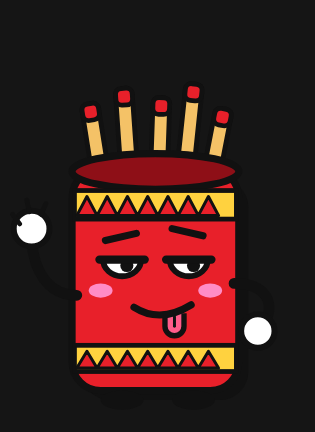
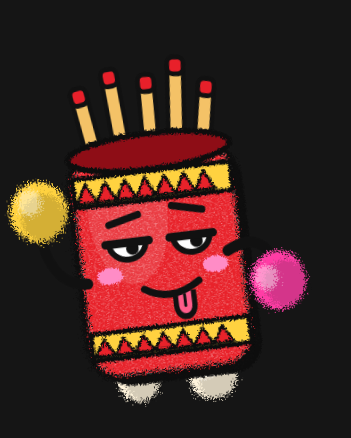
น้องซี้ขนฟูและเต้นดุ๊กดิ๊กตอนรอเขย่า
- ตัวกระบอก มือ เท้า เป็นขนฟูด้วยฟิลเตอร์ SVG (turbulence + displacement)
- มือ/เท้าเป็นปอมปอมสี เพิ่มลายขนบนตัว
- เต้นเด้งส่ายตัว โบกมือ ย่ำเท้า กะพริบตา ตอนหน้าเริ่มเกมและตอนรอเขย่า
- หยุดเต้นระหว่างเขย่า/เฉลย และปิดทั้งหมดเมื่อผู้ใช้ตั้งลดการเคลื่อนไหว
- อัปเดตรูป assets/mascot.svg, mascot.png, logo.png

Claude-Session: https://claude.ai/code/session_019TdPX2fSafkCAhLCbdSRDq

diff --git a/src/ui/mascot.ts b/src/ui/mascot.ts
@@ -1,4 +1,4 @@
-// มาสคอต "น้องซี้" — กระบอกเซียมซีหน้ากวน ตาปรือ แลบลิ้น มีแขนการ์ตูน
+// มาสคอต "น้องซี้" — กระบอกเซียมซีขนฟูหน้ากวน ตาปรือ แลบลิ้น มือ/เท้าปอมปอม เต้นดุ๊กดิ๊กตอนว่าง
 // ใช้ชุดเดียวกันทั้งโลโก้ หน้าเริ่มเกม และกระบอกที่เขย่าได้จริง
 
 export const C = {
@@ -52,8 +52,26 @@ export interface MascotOpts {
   className?: string;
 }
 
+let uid = 0;
+
+/** ปอมปอมขนฟู: วงกลมสี + เงา + ไฮไลต์ แล้วใส่ฟิลเตอร์ขนทั้งก้อน */
+function pom(cx: number, cy: number, r: number, color: string, fur: string) {
+  return `<g filter="url(#${fur})">
+      <circle cx="${cx}" cy="${cy}" r="${r}" fill="${color}"/>
+      <circle cx="${cx + r * 0.18}" cy="${cy + r * 0.22}" r="${r * 0.8}" fill="${C.ink}" opacity=".18"/>
+      <circle cx="${cx - r * 0.3}" cy="${cy - r * 0.32}" r="${r * 0.42}" fill="#fff" opacity=".45"/>
+    </g>`;
+}
+
 export function mascotSVG(opts: MascotOpts = {}): string {
   const title = opts.title ?? 'น้องซี้ กระบอกเซียมซีหน้ากวน';
+  // id ไม่ซ้ำ เผื่อมีมาสคอตหลายตัวในหน้าเดียว
+  const id = `m${++uid}`;
+  const fur = `${id}-fur`;
+  const furSoft = `${id}-fur-soft`;
+  const fuzz = `${id}-fuzz`;
+  const shag = `${id}-shag`;
+  const shape = `${id}-shape`;
   const pick = opts.pickStick
     ? `<g class="pick-stick">
         <rect x="111" y="112" width="26" height="150" rx="8" fill="${C.stick}" stroke="${C.ink}" stroke-width="5"/>
@@ -61,44 +79,94 @@ export function mascotSVG(opts: MascotOpts = {}): string {
         <text class="pick-num" x="124" y="132" text-anchor="middle" font-size="28" font-weight="800" fill="${C.ink}" font-family="Kanit, system-ui, sans-serif">?</text>
       </g>`
     : '';
-  return `<svg class="mascot ${opts.className ?? ''}" viewBox="-8 -52 262 362" role="img" aria-label="${title}" xmlns="http://www.w3.org/2000/svg">
+  return `<svg class="mascot ${opts.className ?? ''}" viewBox="-30 -52 296 372" role="img" aria-label="${title}" xmlns="http://www.w3.org/2000/svg">
   <title>${title}</title>
+  <defs>
+    <!-- ขอบขนฟู: สุ่มเลื่อนพิกเซลรอบขอบให้เป็นเส้นขนเล็ก ๆ -->
+    <filter id="${fur}" x="-25%" y="-25%" width="150%" height="150%">
+      <feTurbulence type="fractalNoise" baseFrequency="0.9" numOctaves="2" seed="3" result="n"/>
+      <feDisplacementMap in="SourceGraphic" in2="n" scale="9" xChannelSelector="R" yChannelSelector="G"/>
+    </filter>
+    <!-- ขนยาวสำหรับปอมปอม/ขอบนอก -->
+    <filter id="${shag}" x="-35%" y="-35%" width="170%" height="170%">
+      <feTurbulence type="fractalNoise" baseFrequency="1.1" numOctaves="2" seed="11" result="n"/>
+      <feDisplacementMap in="SourceGraphic" in2="n" scale="16" xChannelSelector="R" yChannelSelector="G"/>
+    </filter>
+    <filter id="${furSoft}" x="-10%" y="-10%" width="120%" height="120%">
+      <feTurbulence type="fractalNoise" baseFrequency="0.7" numOctaves="2" seed="8" result="n"/>
+      <feDisplacementMap in="SourceGraphic" in2="n" scale="5" xChannelSelector="R" yChannelSelector="G"/>
+    </filter>
+    <!-- ลายขนบนตัว: จุดสว่าง/มืดละเอียด วางทับแบบ soft-light -->
+    <filter id="${fuzz}" x="0" y="0" width="100%" height="100%">
+      <feTurbulence type="fractalNoise" baseFrequency="0.55 1.6" numOctaves="3" seed="5"/>
+      <feColorMatrix type="matrix" values="0 0 0 0 1  0 0 0 0 1  0 0 0 0 1  0 0 0 2.2 -1.05"/>
+    </filter>
+    <clipPath id="${shape}"><rect x="50" y="90" width="140" height="186" rx="26"/></clipPath>
+  </defs>
+  <g class="mascot-dance">
   <g class="mascot-shake">
     <g class="sticks">${sticks()}</g>
     ${pick}
+    <!-- เท้าปอมปอม -->
+    <g class="foot foot-l">${pom(88, 284, 20, C.cream, shag)}</g>
+    <g class="foot foot-r">${pom(152, 284, 20, C.cream, shag)}</g>
     <!-- เงาทึบแบบสติกเกอร์ -->
-    <rect x="58" y="98" width="140" height="186" rx="24" fill="${C.ink}"/>
-    <!-- ตัวกระบอก -->
-    <rect x="50" y="90" width="140" height="186" rx="24" fill="${C.red}" stroke="${C.ink}" stroke-width="6"/>
-    <ellipse cx="120" cy="92" rx="70" ry="15" fill="${C.redDark}" stroke="${C.ink}" stroke-width="6"/>
-    ${shrineBand(108, 24)}
-    ${shrineBand(238, 22)}
-    <!-- แขนซ้าย (โบกมือ) -->
-    <path d="M54 196 C30 196 18 176 16 150" fill="none" stroke="${C.ink}" stroke-width="9" stroke-linecap="round"/>
-    <circle cx="16" cy="140" r="15" fill="#fff" stroke="${C.ink}" stroke-width="5"/>
-    <path d="M6 136 l-6 -8 M14 126 l-2 -10 M24 128 l4 -9" stroke="${C.ink}" stroke-width="4" stroke-linecap="round"/>
+    <g filter="url(#${furSoft})"><rect x="58" y="98" width="140" height="186" rx="26" fill="${C.ink}"/></g>
+    <!-- ตัวกระบอกขนฟู -->
+    <g class="body">
+      <!-- ปุยขนยาวรอบตัว -->
+      <g filter="url(#${shag})">
+        <rect x="46" y="86" width="148" height="194" rx="30" fill="${C.ink}"/>
+      </g>
+      <g filter="url(#${shag})">
+        <rect x="52" y="92" width="136" height="182" rx="24" fill="${C.red}"/>
+      </g>
+      <g filter="url(#${fur})">
+        <rect x="56" y="96" width="128" height="174" rx="22" fill="${C.red}"/>
+      </g>
+      <g clip-path="url(#${shape})">
+        <rect x="50" y="90" width="140" height="186" filter="url(#${fuzz})" opacity=".5" style="mix-blend-mode:soft-light"/>
+        <ellipse cx="96" cy="140" rx="34" ry="60" fill="#fff" opacity=".12"/>
+      </g>
+      <g filter="url(#${furSoft})">
+        <ellipse cx="120" cy="92" rx="70" ry="15" fill="${C.redDark}" stroke="${C.ink}" stroke-width="5"/>
+        ${shrineBand(108, 24)}
+        ${shrineBand(238, 22)}
+      </g>
+    </g>
+    <!-- แขนซ้าย (โบกมือ) มือเป็นปอมปอม -->
+    <g class="arm arm-l">
+      <path d="M54 196 C30 196 18 176 16 150" fill="none" stroke="${C.ink}" stroke-width="9" stroke-linecap="round"/>
+      ${pom(16, 134, 25, C.yellow, shag)}
+    </g>
     <!-- แขนขวา (เท้าเอว) -->
-    <path d="M186 186 C214 186 222 204 210 222" fill="none" stroke="${C.ink}" stroke-width="9" stroke-linecap="round"/>
-    <circle cx="206" cy="226" r="14" fill="#fff" stroke="${C.ink}" stroke-width="5"/>
+    <g class="arm arm-r">
+      <path d="M186 186 C214 186 222 204 210 222" fill="none" stroke="${C.ink}" stroke-width="9" stroke-linecap="round"/>
+      ${pom(210, 230, 24, C.pink, shag)}
+    </g>
     <!-- หน้า: ตาปรือ คิ้วกวน -->
     <g class="face">
-      <path d="M78 150 L104 144" stroke="${C.ink}" stroke-width="6" stroke-linecap="round"/>
-      <path d="M134 140 L160 146" stroke="${C.ink}" stroke-width="6" stroke-linecap="round"/>
-      <path d="M76 166 A16 14 0 0 0 108 166 Z" fill="#fff" stroke="${C.ink}" stroke-width="5" stroke-linejoin="round"/>
-      <path d="M132 166 A16 14 0 0 0 164 166 Z" fill="#fff" stroke="${C.ink}" stroke-width="5" stroke-linejoin="round"/>
-      <circle cx="96" cy="171" r="5.5" fill="${C.ink}"/>
-      <circle cx="152" cy="171" r="5.5" fill="${C.ink}"/>
-      <path d="M73 166 H111 M129 166 H167" stroke="${C.ink}" stroke-width="7" stroke-linecap="round"/>
-      <ellipse cx="74" cy="192" rx="10" ry="6" fill="${C.blush}"/>
-      <ellipse cx="166" cy="192" rx="10" ry="6" fill="${C.blush}"/>
+      <g class="brows">
+        <path d="M78 150 L104 144" stroke="${C.ink}" stroke-width="6" stroke-linecap="round"/>
+        <path d="M134 140 L160 146" stroke="${C.ink}" stroke-width="6" stroke-linecap="round"/>
+      </g>
+      <g class="eyes">
+        <path d="M76 166 A16 14 0 0 0 108 166 Z" fill="#fff" stroke="${C.ink}" stroke-width="5" stroke-linejoin="round"/>
+        <path d="M132 166 A16 14 0 0 0 164 166 Z" fill="#fff" stroke="${C.ink}" stroke-width="5" stroke-linejoin="round"/>
+        <circle cx="96" cy="171" r="5.5" fill="${C.ink}"/>
+        <circle cx="152" cy="171" r="5.5" fill="${C.ink}"/>
+        <path d="M73 166 H111 M129 166 H167" stroke="${C.ink}" stroke-width="7" stroke-linecap="round"/>
+      </g>
+      <ellipse cx="74" cy="192" rx="11" ry="7" fill="${C.blush}" filter="url(#${furSoft})"/>
+      <ellipse cx="166" cy="192" rx="11" ry="7" fill="${C.blush}" filter="url(#${furSoft})"/>
       <!-- ยิ้มมุมปาก + แลบลิ้น -->
-      <path d="M128 213 v9 a8 8 0 0 0 16 0 v-11" fill="${C.tongue}" stroke="${C.ink}" stroke-width="4.5" stroke-linejoin="round"/>
-      <path d="M136 214 v8" stroke="${C.ink}" stroke-width="2.5" stroke-linecap="round"/>
+      <g class="tongue">
+        <path d="M128 213 v9 a8 8 0 0 0 16 0 v-11" fill="${C.tongue}" stroke="${C.ink}" stroke-width="4.5" stroke-linejoin="round"/>
+        <path d="M136 214 v8" stroke="${C.ink}" stroke-width="2.5" stroke-linecap="round"/>
+      </g>
       <path d="M102 206 Q124 220 150 204" fill="none" stroke="${C.ink}" stroke-width="6" stroke-linecap="round"/>
     </g>
-    <!-- เท้า -->
-    <ellipse cx="92" cy="284" rx="18" ry="8" fill="${C.ink}"/>
-    <ellipse cx="152" cy="284" rx="18" ry="8" fill="${C.ink}"/>
+  </g>
   </g>
 </svg>`;
 }

diff --git a/src/styles.css b/src/styles.css
@@ -219,7 +219,7 @@ a {
   gap: 6px;
 }
 .logo-mascot {
-  width: 104px;
+  width: 116px;
   flex: none;
 }
 .logo-mascot svg {
@@ -1109,8 +1109,118 @@ textarea {
   transform: translate(-50%, 0);
 }
 
+/* ---------- น้องซี้เต้นดุ๊กดิ๊ก (ตอนว่าง) */
+.mascot .mascot-dance,
+.mascot .arm,
+.mascot .foot,
+.mascot .eyes,
+.mascot .tongue,
+.mascot .body {
+  transform-box: fill-box;
+}
+.mascot .mascot-dance {
+  transform-origin: 50% 100%;
+  animation: dance 0.9s cubic-bezier(0.45, 0, 0.3, 1) infinite;
+}
+.mascot .arm-l {
+  transform-origin: 100% 100%;
+  animation: wave-l 0.45s ease-in-out infinite alternate;
+}
+.mascot .arm-r {
+  transform-origin: 0% 20%;
+  animation: wave-r 0.9s ease-in-out infinite alternate;
+}
+.mascot .foot-l {
+  transform-origin: 50% 50%;
+  animation: step 0.9s ease-in-out infinite;
+}
+.mascot .foot-r {
+  transform-origin: 50% 50%;
+  animation: step 0.9s ease-in-out infinite 0.45s;
+}
+.mascot .body {
+  transform-origin: 50% 100%;
+  animation: fluff 0.45s ease-in-out infinite alternate;
+}
+.mascot .eyes {
+  transform-origin: 50% 70%;
+  animation: blink 3.6s infinite;
+}
+.mascot .tongue {
+  transform-origin: 50% 0%;
+  animation: tongue 0.45s ease-in-out infinite alternate;
+}
+@keyframes dance {
+  0%,
+  100% {
+    transform: translateY(0) rotate(0) scale(1.03, 0.96);
+  }
+  25% {
+    transform: translateY(-12px) rotate(-7deg) scale(0.98, 1.03);
+  }
+  50% {
+    transform: translateY(0) rotate(0) scale(1.03, 0.96);
+  }
+  75% {
+    transform: translateY(-12px) rotate(7deg) scale(0.98, 1.03);
+  }
+}
+@keyframes wave-l {
+  from {
+    transform: rotate(-14deg);
+  }
+  to {
+    transform: rotate(22deg);
+  }
+}
+@keyframes wave-r {
+  from {
+    transform: rotate(-30deg) translateY(-6px);
+  }
+  to {
+    transform: rotate(8deg);
+  }
+}
+@keyframes step {
+  0%,
+  100% {
+    transform: translateY(0) scale(1.08, 0.9);
+  }
+  25% {
+    transform: translateY(-7px) scale(0.95, 1.05);
+  }
+  50% {
+    transform: translateY(0) scale(1, 1);
+  }
+}
+@keyframes fluff {
+  to {
+    transform: scale(1.025, 0.985);
+  }
+}
+@keyframes blink {
+  0%,
+  92%,
+  100% {
+    transform: scaleY(1);
+  }
+  95% {
+    transform: scaleY(0.1);
+  }
+}
+@keyframes tongue {
+  to {
+    transform: scaleY(1.25);
+  }
+}
+/* ระหว่างเขย่า/เฉลย ให้หยุดเต้น กระบอกจะได้ไม่ส่ายซ้อนกัน */
+.play:not([data-phase='idle']) .mascot :is(.mascot-dance, .arm, .foot, .body, .tongue) {
+  animation: none;
+}
+
 /* ลดการเคลื่อนไหว */
 @media (prefers-reduced-motion: reduce) {
+  .mascot :is(.mascot-dance, .arm, .foot, .body, .eyes, .tongue),
   [data-phase='shaking'] .shaker-tilt,
   [data-phase='shaking'] .sticks,
   .card,
